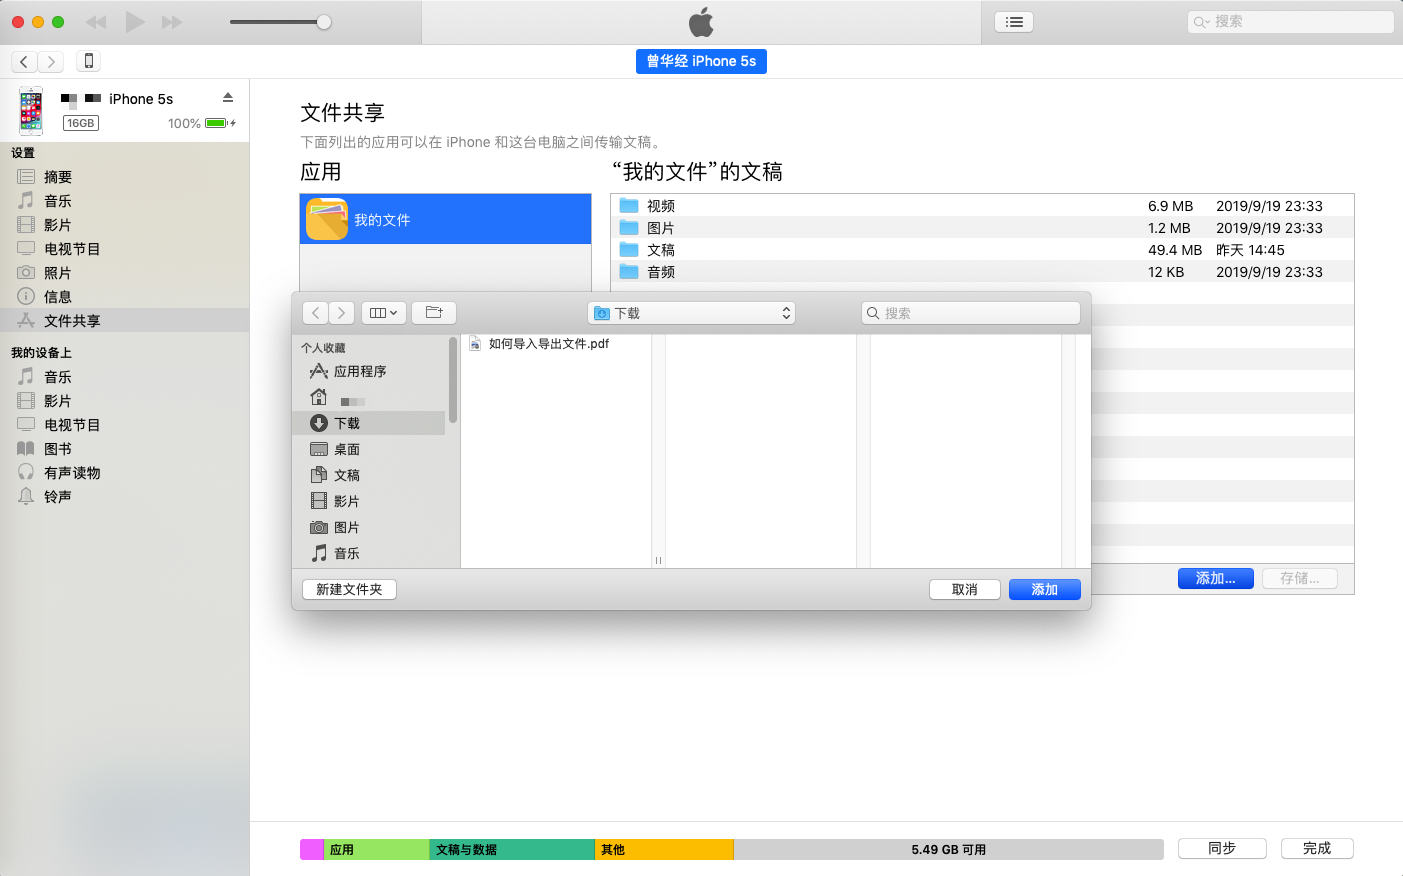
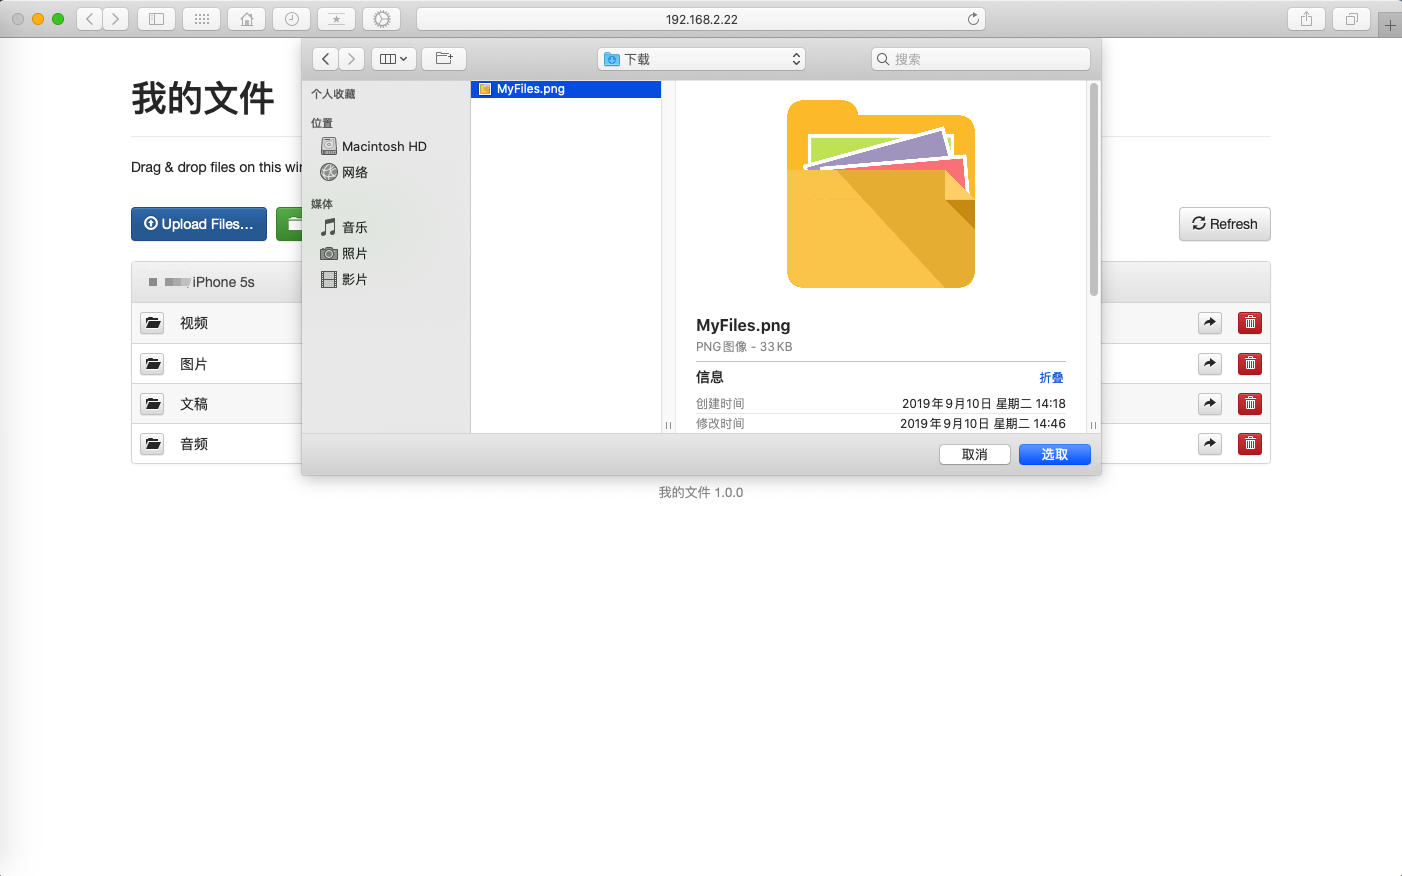
修改

diff --git a/guide/index.html b/guide/index.html
@@ -886,7 +886,7 @@ style='font-family:楷体;mso-bidi-font-family:"Yuppy SC"'><o:p>&nbsp;</o:p></sp
 
 <p class=MsoNormal style='line-height:12.0pt'><span lang=EN-US
 style='font-family:楷体;mso-bidi-font-family:"Yuppy SC"'>1. </span><span
-style='font-family:楷体;mso-bidi-font-family:"Yuppy SC"'>连接手机到<span lang=EN-US>iTunes</span>。<span
+style='font-family:楷体;mso-bidi-font-family:"Yuppy SC"'>将<span lang=EN-US>iPhone</span>手机和电脑连接到同一<span lang=EN-US>Wifi</span>下。<span
 lang=EN-US><o:p></o:p></span></span></p>
 
 <p class=MsoNormal style='line-height:12.0pt'><span lang=EN-US
@@ -894,7 +894,15 @@ style='font-family:楷体;mso-bidi-font-family:"Yuppy SC"'><o:p>&nbsp;</o:p></sp
 
 <p class=MsoNormal style='line-height:12.0pt'><span lang=EN-US
 style='font-family:楷体;mso-bidi-font-family:"Yuppy SC"'>2. </span><span
-style='font-family:楷体;mso-bidi-font-family:"Yuppy SC"'>在<span lang=EN-US>iTunes</span>中自己设备下的“文件共享”，找到“我的文件”应用。<span
+style='font-family:楷体;mso-bidi-font-family:"Yuppy SC"'>打开“我的文件”<span lang=EN-US>APP</span>，点击文件列表右上角的文件传输按钮，跳转到<span lang=EN-US>Wifi</span>传输页面<span
+lang=EN-US><o:p></o:p></span></span></p>
+
+<p class=MsoNormal style='line-height:12.0pt'><span lang=EN-US
+style='font-family:楷体;mso-bidi-font-family:"Yuppy SC"'><o:p>&nbsp;</o:p></span></p>
+
+<p class=MsoNormal style='line-height:12.0pt'><span lang=EN-US
+style='font-family:楷体;mso-bidi-font-family:"Yuppy SC"'>3. </span><span
+style='font-family:楷体;mso-bidi-font-family:"Yuppy SC"'>在电脑浏览器中输入<span lang=EN-US>Wifi</span>传输爷们中指定的IP地址，打开文件传输页面。<span
 lang=EN-US><o:p></o:p></span></span></p>
 
 <p class=MsoNormal style='line-height:12.0pt'><span lang=EN-US
@@ -925,8 +933,8 @@ yes'><!--[if gte vml 1]><v:shapetype id="_x0000_t75" coordsize="21600,21600"
 </v:shapetype><v:shape id="图片_x0020_4" o:spid="_x0000_i1028" type="#_x0000_t75"
  style='width:523pt;height:326pt;visibility:visible;mso-wrap-style:square'>
  <v:imagedata src="image001.png" o:title=""/>
-</v:shape><![endif]--><![if !vml]><img width=100% height=auto
-src="image001.png" v:shapes="图片_x0020_4"><![endif]></span><span
+</v:shape><![endif]--><![if !vml]><img width=50% height=auto
+src="image001.jpeg" v:shapes="图片_x0020_4"><![endif]></span><span
 lang=EN-US style='font-family:楷体;mso-bidi-font-family:"Yuppy SC"'><o:p></o:p></span></p>
 
 <span lang=EN-US style='font-size:14.0pt;font-family:楷体;mso-bidi-font-family:
@@ -939,22 +947,14 @@ always'>
 lang=EN-US style='font-size:14.0pt;font-family:楷体;mso-bidi-font-family:"Yuppy SC"'><o:p>&nbsp;</o:p></span></p>
 
 <p class=MsoNormal style='mso-line-height-alt:12.0pt'><span style='font-size:
-14.0pt;font-family:楷体;mso-bidi-font-family:"Yuppy SC"'>二、导入文件<span lang=EN-US><o:p></o:p></span></span></p>
+14.0pt;font-family:楷体;mso-bidi-font-family:"Yuppy SC"'>二、上传文件<span lang=EN-US><o:p></o:p></span></span></p>
 
 <p class=MsoNormal style='line-height:12.0pt'><span lang=EN-US
 style='font-family:楷体;mso-bidi-font-family:"Yuppy SC"'><o:p>&nbsp;</o:p></span></p>
 
 <p class=MsoNormal style='line-height:12.0pt'><span lang=EN-US
 style='font-family:楷体;mso-bidi-font-family:"Yuppy SC"'>1. </span><span
-style='font-family:楷体;mso-bidi-font-family:"Yuppy SC"'>在点击“添加”按钮，选择你要导入的文件或文件夹即可。<span
-lang=EN-US><o:p></o:p></span></span></p>
-
-<p class=MsoNormal style='line-height:12.0pt'><span lang=EN-US
-style='font-family:楷体;mso-bidi-font-family:"Yuppy SC"'><o:p>&nbsp;</o:p></span></p>
-
-<p class=MsoNormal style='line-height:12.0pt'><span lang=EN-US
-style='font-family:楷体;mso-bidi-font-family:"Yuppy SC"'>2. </span><span
-style='font-family:楷体;mso-bidi-font-family:"Yuppy SC"'>或者将文件或文件夹直接拖动到“我的文件”应用下的列表中。<span
+    style='font-family:楷体;mso-bidi-font-family:"Yuppy SC"'>在电脑浏览器文件传输页面中，点击“<span lang=EN-US>Upload Files...</span>”按钮，选择要上传的文件。<span
 lang=EN-US><o:p></o:p></span></span></p>
 
 <p class=MsoNormal style='line-height:12.0pt'><span lang=EN-US
@@ -982,14 +982,14 @@ lang=EN-US style='font-family:楷体;mso-bidi-font-family:"Yuppy SC"'><o:p>&nbsp
 lang=EN-US style='font-family:楷体;mso-bidi-font-family:"Yuppy SC"'><o:p>&nbsp;</o:p></span></p>
 
 <p class=MsoNormal style='mso-line-height-alt:12.0pt'><span style='font-size:
-14.0pt;font-family:楷体;mso-bidi-font-family:"Yuppy SC"'>三、导出文件<span lang=EN-US><o:p></o:p></span></span></p>
+14.0pt;font-family:楷体;mso-bidi-font-family:"Yuppy SC"'>三、创建文件夹<span lang=EN-US><o:p></o:p></span></span></p>
 
 <p class=MsoNormal style='line-height:12.0pt'><span lang=EN-US
 style='font-family:楷体;mso-bidi-font-family:"Yuppy SC"'><o:p>&nbsp;</o:p></span></p>
 
 <p class=MsoNormal style='line-height:12.0pt'><span lang=EN-US
 style='font-family:楷体;mso-bidi-font-family:"Yuppy SC"'>1. </span><span
-style='font-family:楷体;mso-bidi-font-family:"Yuppy SC"'>选择你要导出的文件或文件夹，点击“存储”按钮，选择导出路径即可。<span
+    style='font-family:楷体;mso-bidi-font-family:"Yuppy SC"'>在电脑浏览器文件传输页面中，点击“<span lang=EN-US>Create Folder...</span>”，在弹出的面板中输入文件夹名称，点击“<span lang=EN-US>Create Folder</span>”按钮创建文件夹。<span
 lang=EN-US><o:p></o:p></span></span></p>
 
 <p class=MsoNormal style='line-height:12.0pt'><span lang=EN-US
@@ -1017,15 +1017,14 @@ always'>
 lang=EN-US style='font-size:14.0pt;font-family:楷体;mso-bidi-font-family:"Yuppy SC"'><o:p>&nbsp;</o:p></span></p>
 
 <p class=MsoNormal style='mso-line-height-alt:12.0pt'><span style='font-size:
-14.0pt;font-family:楷体;mso-bidi-font-family:"Yuppy SC"'>四、删除文件<span lang=EN-US><o:p></o:p></span></span></p>
+14.0pt;font-family:楷体;mso-bidi-font-family:"Yuppy SC"'>四、移动文件<span lang=EN-US><o:p></o:p></span></span></p>
 
 <p class=MsoNormal style='line-height:12.0pt'><span lang=EN-US
 style='font-family:楷体;mso-bidi-font-family:"Yuppy SC"'><o:p>&nbsp;</o:p></span></p>
 
 <p class=MsoNormal style='line-height:12.0pt'><span lang=EN-US
 style='font-family:楷体;mso-bidi-font-family:"Yuppy SC"'>1. </span><span
-style='font-family:楷体;mso-bidi-font-family:"Yuppy SC"'>选择你要删除的文件或文件夹，按键盘上的“<span
-lang=EN-US>Delete</span>”按钮，点击确定<span lang=EN-US><o:p></o:p></span></span></p>
+style='font-family:楷体;mso-bidi-font-family:"Yuppy SC"'>在电脑浏览器文件传输页面中，点击文件列表右侧的移动按钮，在弹出的面板中输入目标路径，点击“<span lang=EN-US>Move Item</span>”按钮进行移动。<span lang=EN-US><o:p></o:p></span></span></p>
 
 <p class=MsoNormal style='line-height:12.0pt'><span lang=EN-US
 style='font-family:楷体;mso-bidi-font-family:"Yuppy SC"'><o:p>&nbsp;</o:p></span></p>
@@ -1038,6 +1037,26 @@ yes'><!--[if gte vml 1]><v:shape id="图片_x0020_8" o:spid="_x0000_i1025" type=
 </v:shape><![endif]--><![if !vml]><img width=100% height=auto
 src="image004.png" v:shapes="图片_x0020_8"><![endif]></span><span
 lang=EN-US style='font-family:楷体;mso-bidi-font-family:"Yuppy SC"'><o:p></o:p></span></p>
+
+<p class=MsoNormal align=center style='text-align:center;line-height:12.0pt'><span
+lang=EN-US style='font-family:楷体;mso-bidi-font-family:"Yuppy SC"'><o:p>&nbsp;</o:p></span></p>
+
+
+<p class=MsoNormal align=left style='text-align:left;mso-pagination:widow-orphan'><span
+lang=EN-US style='font-size:14.0pt;font-family:楷体;mso-bidi-font-family:"Yuppy SC"'><o:p>&nbsp;</o:p></span></p>
+
+<p class=MsoNormal style='mso-line-height-alt:12.0pt'><span style='font-size:
+14.0pt;font-family:楷体;mso-bidi-font-family:"Yuppy SC"'>五、删除文件<span lang=EN-US><o:p></o:p></span></span></p>
+
+<p class=MsoNormal style='line-height:12.0pt'><span lang=EN-US
+style='font-family:楷体;mso-bidi-font-family:"Yuppy SC"'><o:p>&nbsp;</o:p></span></p>
+
+<p class=MsoNormal style='line-height:12.0pt'><span lang=EN-US
+style='font-family:楷体;mso-bidi-font-family:"Yuppy SC"'>1. </span><span
+style='font-family:楷体;mso-bidi-font-family:"Yuppy SC"'>在电脑浏览器文件传输页面中，点击文件列表右侧的删除按钮，即可删除对应文件（删除文件不可恢复，请谨慎操作）。<span lang=EN-US><o:p></o:p></span></span></p>
+
+<p class=MsoNormal style='line-height:12.0pt'><span lang=EN-US
+style='font-family:楷体;mso-bidi-font-family:"Yuppy SC"'><o:p>&nbsp;</o:p></span></p>
 
 <p class=MsoNormal align=center style='text-align:center;line-height:12.0pt'><span
 lang=EN-US style='font-family:楷体;mso-bidi-font-family:"Yuppy SC"'><o:p>&nbsp;</o:p></span></p>
